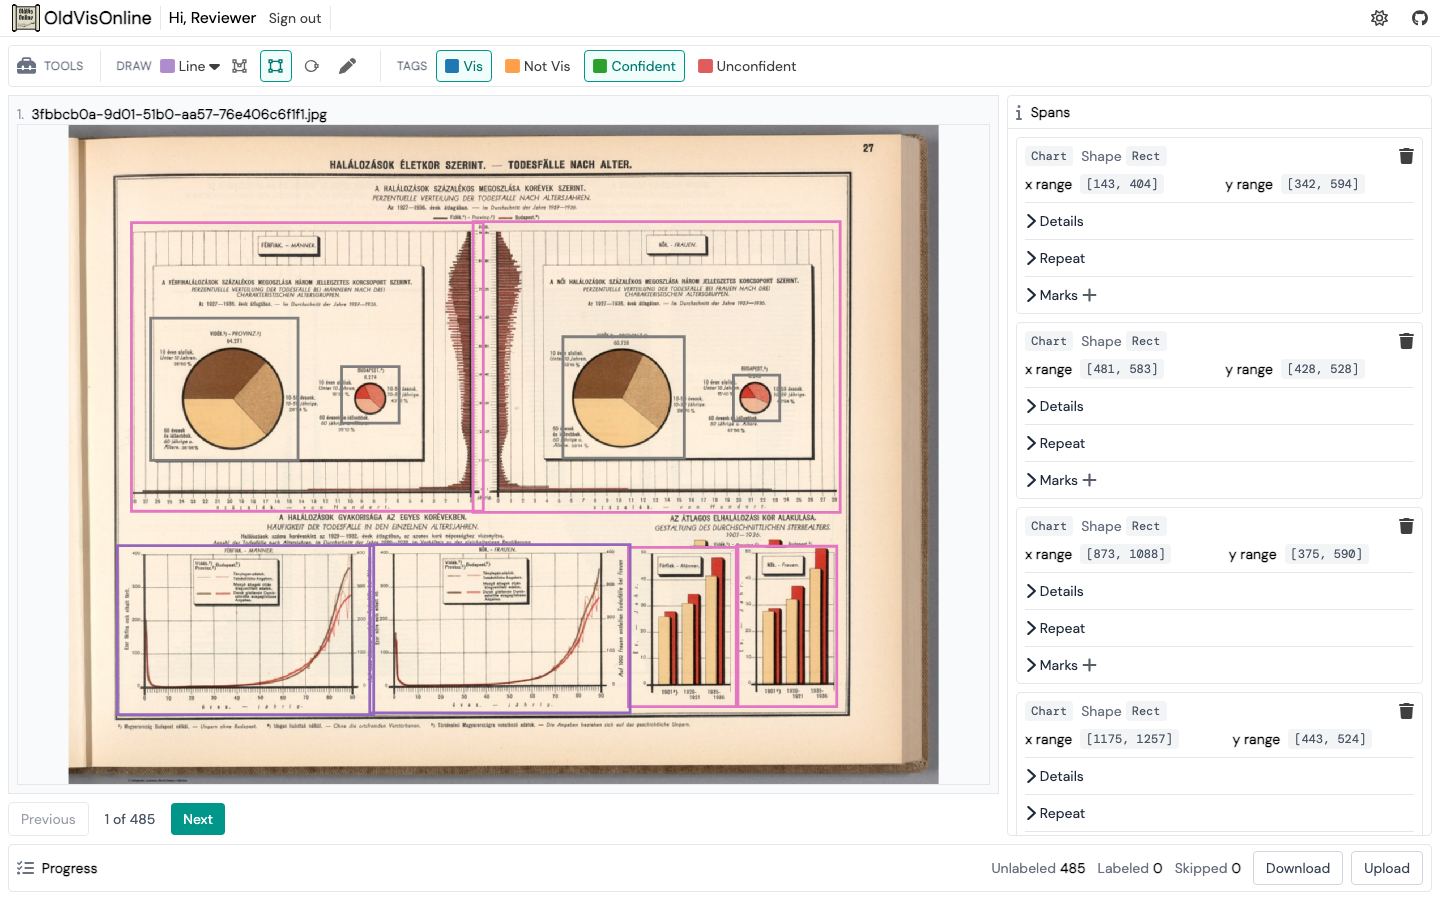
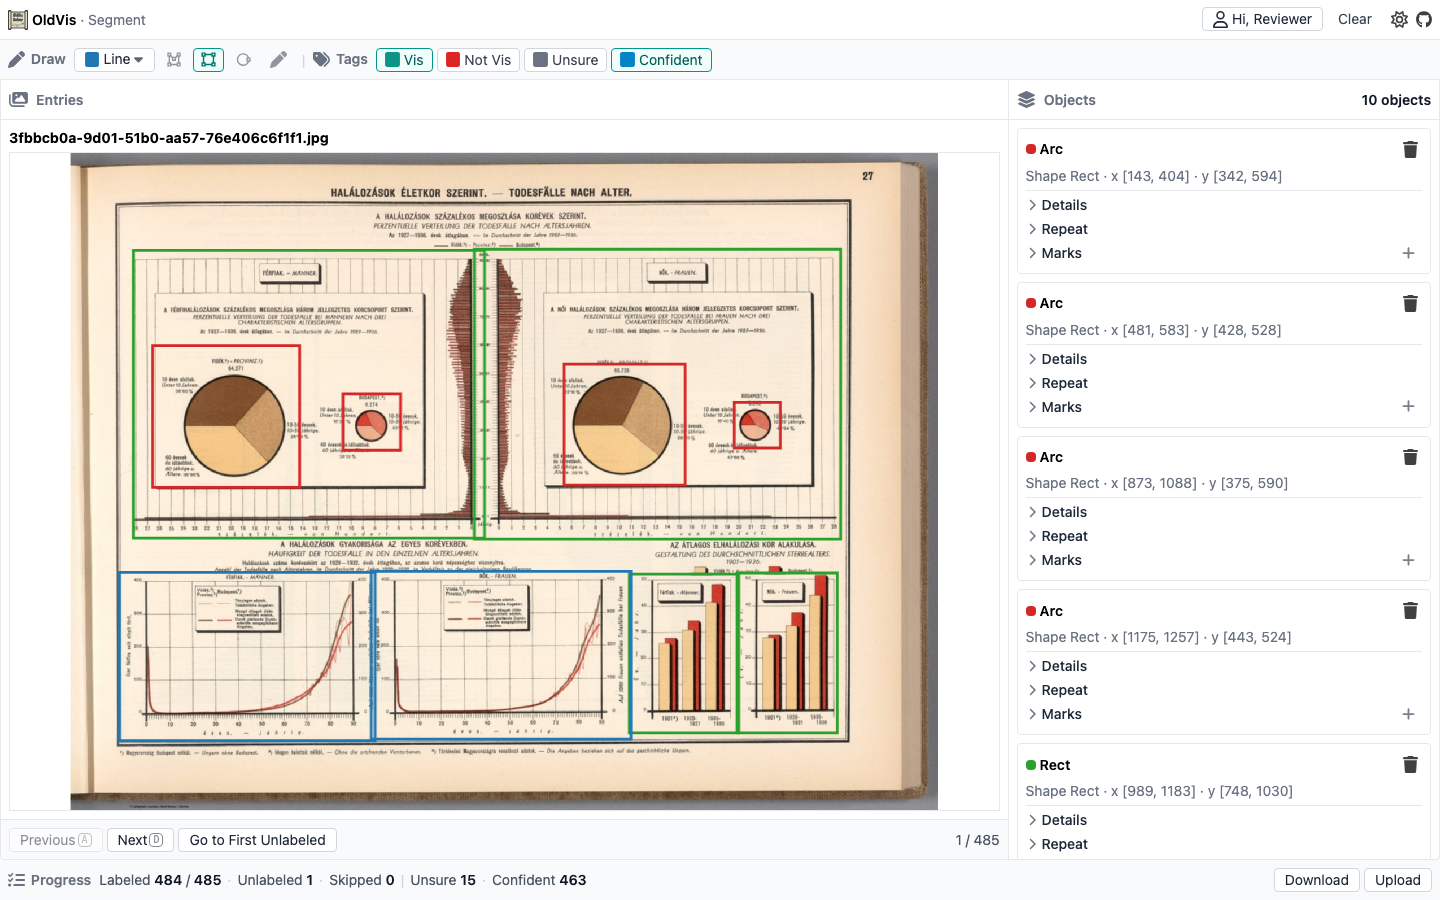
feat: enhance annotation upload and testing capabilities
Added new end-to-end tests for annotation upload functionality, validating various scenarios including valid and invalid schemas. Introduced fixture files for testing different annotation cases. Updated the file handling logic to improve user experience when uploading JSON files. Enhanced ESLint configuration to ignore specific directories for better management.

diff --git a/e2e/upload.spec.ts b/e2e/upload.spec.ts
@@ -1,0 +1,80 @@
+import fs from 'node:fs'
+import path from 'node:path'
+import { fileURLToPath } from 'node:url'
+import { expect, test } from '@playwright/test'
+import { openAnnotateApp } from './helpers/app'
+
+const fixturesDir = path.resolve(path.dirname(fileURLToPath(import.meta.url)), 'fixtures')
+
+const uploadFixture = async (
+  page: import('@playwright/test').Page,
+  filename: string,
+): Promise<void> => {
+  const upload = page.getByRole('button', { name: 'Upload', exact: true })
+  await expect(upload).toBeVisible()
+  // Avoid racing Vite's first-load dependency optimize (can drop the synthetic file input).
+  await page.waitForLoadState('networkidle')
+  const chooserPromise = page.waitForEvent('filechooser', { timeout: 30_000 })
+  await upload.click()
+  const chooser = await chooserPromise
+  await chooser.setFiles(path.join(fixturesDir, filename))
+}
+
+const downloadAnnotations = async (
+  page: import('@playwright/test').Page,
+): Promise<unknown[]> => {
+  const downloadPromise = page.waitForEvent('download')
+  await page.getByRole('button', { name: 'Download', exact: true }).click()
+  const download = await downloadPromise
+  const filePath = await download.path()
+  expect(filePath).toBeTruthy()
+  return JSON.parse(fs.readFileSync(filePath!, 'utf8')) as unknown[]
+}
+
+test.describe('annotation upload schema checks', () => {
+  test('accepts a valid annotations array and shows success', async ({ page }) => {
+    await openAnnotateApp(page)
+
+    await uploadFixture(page, 'annotations-valid.json')
+
+    await expect(page.getByText('Annotations uploaded')).toBeVisible()
+    expect(await downloadAnnotations(page)).toHaveLength(2)
+    await expect(page.getByTestId('progress-labeled-count')).toHaveText('2')
+  })
+
+  test('rejects invalid schema without replacing existing annotations', async ({ page }) => {
+    await openAnnotateApp(page)
+
+    const labeled = page.getByTestId('progress-labeled-count')
+    const before = await labeled.textContent()
+
+    await uploadFixture(page, 'annotations-invalid-schema.json')
+
+    await expect(page.getByText('Upload failed: file is not an annotations array')).toBeVisible()
+    await expect(labeled).toHaveText(before!)
+  })
+
+  test('rejects invalid JSON without replacing existing annotations', async ({ page }) => {
+    await openAnnotateApp(page)
+
+    const labeled = page.getByTestId('progress-labeled-count')
+    const before = await labeled.textContent()
+
+    await uploadFixture(page, 'annotations-invalid.json')
+
+    await expect(page.getByText('Upload failed: invalid JSON')).toBeVisible()
+    await expect(labeled).toHaveText(before!)
+  })
+
+  test('rejects unknown subjects without replacing existing annotations', async ({ page }) => {
+    await openAnnotateApp(page)
+
+    const labeled = page.getByTestId('progress-labeled-count')
+    const before = await labeled.textContent()
+
+    await uploadFixture(page, 'annotations-unknown-subject.json')
+
+    await expect(page.getByText('Upload failed: annotation subject is not in the dataset')).toBeVisible()
+    await expect(labeled).toHaveText(before!)
+  })
+})

diff --git a/test/plugins/file.test.ts b/test/plugins/file.test.ts
@@ -1,26 +1,85 @@
 import { saveAs } from 'file-saver'
 import { beforeEach, describe, expect, it, vi } from 'vitest'
-import { parseJsonFile, saveJsonFile } from '~/plugins/file'
+import { saveJsonFile, uploadJsonFile } from '~/plugins/file'
 
 vi.mock('file-saver', () => ({
   saveAs: vi.fn(),
 }))
 
-describe('file helpers', () => {
+const mockFileInput = () => {
+  const click = vi.fn()
+  const input = {
+    type: '',
+    accept: '',
+    multiple: true,
+    webkitdirectory: false,
+    value: '',
+    files: null as FileList | null,
+    click,
+    onchange: null as ((e: Event) => void) | null,
+    oncancel: null as (() => void) | null,
+  }
+  const createElement = vi.spyOn(document, 'createElement').mockReturnValue(
+    input as unknown as HTMLInputElement,
+  )
+  return { input, click, createElement }
+}
+
+describe('file plugin', () => {
   beforeEach(() => {
-    vi.mocked(saveAs).mockClear()
+    vi.mocked(saveAs).mockReset()
   })
 
-  it('parseJsonFile reads JSON text', async () => {
-    const file = new File([JSON.stringify({ a: 1 })], 'a.json', { type: 'application/json' })
-    await expect(parseJsonFile(file)).resolves.toEqual({ a: 1 })
-  })
-
-  it('saveJsonFile stringifies and saves a blob', () => {
-    saveJsonFile({ hello: 'world' }, 'out.json')
+  it('saveJsonFile stringifies data and saves a blob', () => {
+    saveJsonFile({ hello: 'world' }, 'annotation.json')
     expect(saveAs).toHaveBeenCalledTimes(1)
     const [blob, filename] = vi.mocked(saveAs).mock.calls[0]
-    expect(filename).toBe('out.json')
+    expect(filename).toBe('annotation.json')
     expect(blob).toBeInstanceOf(Blob)
+    expect((blob as Blob).type).toBe('application/json')
+  })
+
+  it('uploadJsonFile sets accept and resolves null on cancel', async () => {
+    const { input, click, createElement } = mockFileInput()
+
+    const pending = uploadJsonFile()
+    expect(input.type).toBe('file')
+    expect(input.accept).toBe('application/json,.json')
+    expect(input.multiple).toBe(false)
+    expect(click).toHaveBeenCalledTimes(1)
+
+    input.oncancel?.()
+    await expect(pending).resolves.toBeNull()
+
+    createElement.mockRestore()
+  })
+
+  it('uploadJsonFile parses the selected JSON file', async () => {
+    const { input, createElement } = mockFileInput()
+    const payload = [{ type: 'MultilabelClassification', value: ['Vis'] }]
+    const file = new File([JSON.stringify(payload)], 'annotation.json', {
+      type: 'application/json',
+    })
+
+    const pending = uploadJsonFile()
+    input.onchange?.({
+      target: { files: [file] },
+    } as unknown as Event)
+
+    await expect(pending).resolves.toEqual(payload)
+    createElement.mockRestore()
+  })
+
+  it('uploadJsonFile rejects invalid JSON', async () => {
+    const { input, createElement } = mockFileInput()
+    const file = new File(['{'], 'bad.json', { type: 'application/json' })
+
+    const pending = uploadJsonFile()
+    input.onchange?.({
+      target: { files: [file] },
+    } as unknown as Event)
+
+    await expect(pending).rejects.toThrow()
+    createElement.mockRestore()
   })
 })

diff --git a/src/plugins/file.ts b/src/plugins/file.ts
@@ -1,3 +1,4 @@
+import { useFileDialog } from '@vueuse/core'
 import { saveAs } from 'file-saver'
 
 export const saveJsonFile = (data: unknown, filename: string): void => {
@@ -6,7 +7,7 @@ export const saveJsonFile = (data: unknown, filename: string): void => {
   saveAs(blob, filename)
 }
 
-export const parseJsonFile = (file: File): Promise<unknown> => (
+const parseJsonFile = (file: File): Promise<unknown> => (
   new Promise((resolve, reject) => {
     const reader = new FileReader()
     reader.onload = (event) => {
@@ -23,24 +24,36 @@ export const parseJsonFile = (file: File): Promise<unknown> => (
   })
 )
 
-export const uploadJsonFile = () => (
-  new Promise<unknown | null>((resolve, reject) => {
-    const input = document.createElement('input')
-    input.type = 'file'
-    input.accept = 'application/json,.json'
-    input.onchange = async (e) => {
+/** Open a JSON file picker. Resolves `null` when the user cancels. */
+export const uploadJsonFile = (): Promise<unknown> => {
+  const { open, onChange, onCancel } = useFileDialog({
+    accept: 'application/json,.json',
+    multiple: false,
+    reset: true,
+  })
+
+  return new Promise((resolve, reject) => {
+    let settled = false
+
+    onCancel(() => {
+      if (settled) return
+      settled = true
+      resolve(null)
+    })
+
+    onChange(async (files) => {
+      const file = files?.[0]
+      // `reset: true` may emit `null` before the dialog opens; ignore that.
+      if (!file || settled) return
+      settled = true
       try {
-        const target = e.target as HTMLInputElement
-        if (target.files === null || target.files.length === 0) {
-          resolve(null)
-          return
-        }
-        resolve(await parseJsonFile(target.files[0]))
+        resolve(await parseJsonFile(file))
       }
       catch (error) {
         reject(error)
       }
-    }
-    input.click()
+    })
+
+    open()
   })
-)
+}

diff --git a/e2e/docs-screenshot.spec.ts b/e2e/docs-screenshot.spec.ts
@@ -47,12 +47,13 @@ test('capture annotate overview for README', async ({ page }) => {
 
   // Drop seed annotator identities so the public README shot has no real names.
   // Playwright serializes this callback — keep the body free of TS syntax.
+  // Use setAnnotations so annotationsBySubject (Objects panel) rebuilds too.
   await page.evaluate(`(() => {
     const el = document.querySelector('#app')
     const vueApp = el && el.__vue_app__
     const store = vueApp?.config?.globalProperties?.$pinia?._s?.get('annotation')
     if (!store) throw new Error('annotation store not found')
-    store.annotations = store.annotations.map((d) => ({ ...d, user: null }))
+    store.setAnnotations(store.annotations.map((d) => ({ ...d, user: null })))
   })()`)
   await expect(page.getByText('Last modified by')).toHaveCount(0)
   await new Promise((r) => setTimeout(r, 1500))

diff --git a/eslint.config.js b/eslint.config.js
@@ -8,6 +8,7 @@ export default antfu(
     pnpm: true,
     ignores: [
       'src/**/*.json',
+      'e2e/fixtures/**',
       'shims.d.ts',
       'onelabeler.d.ts',
       'test-results/**',
